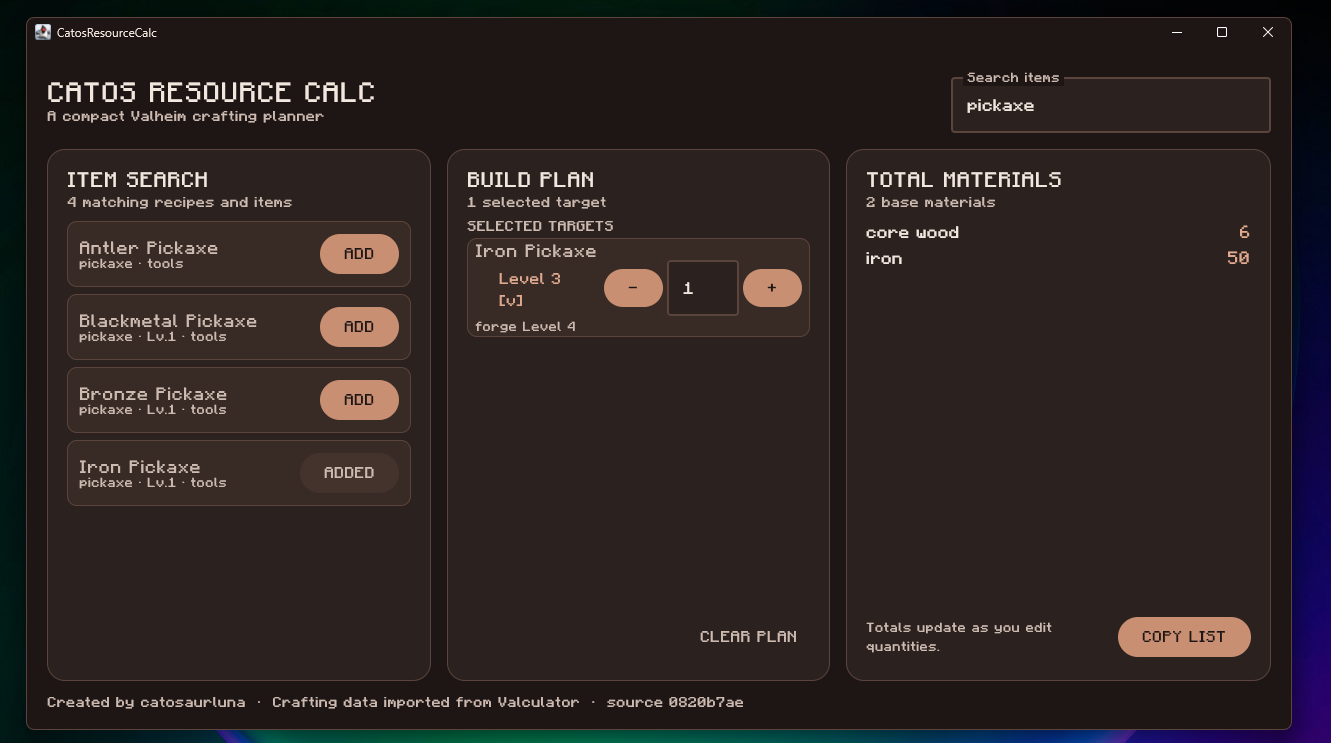
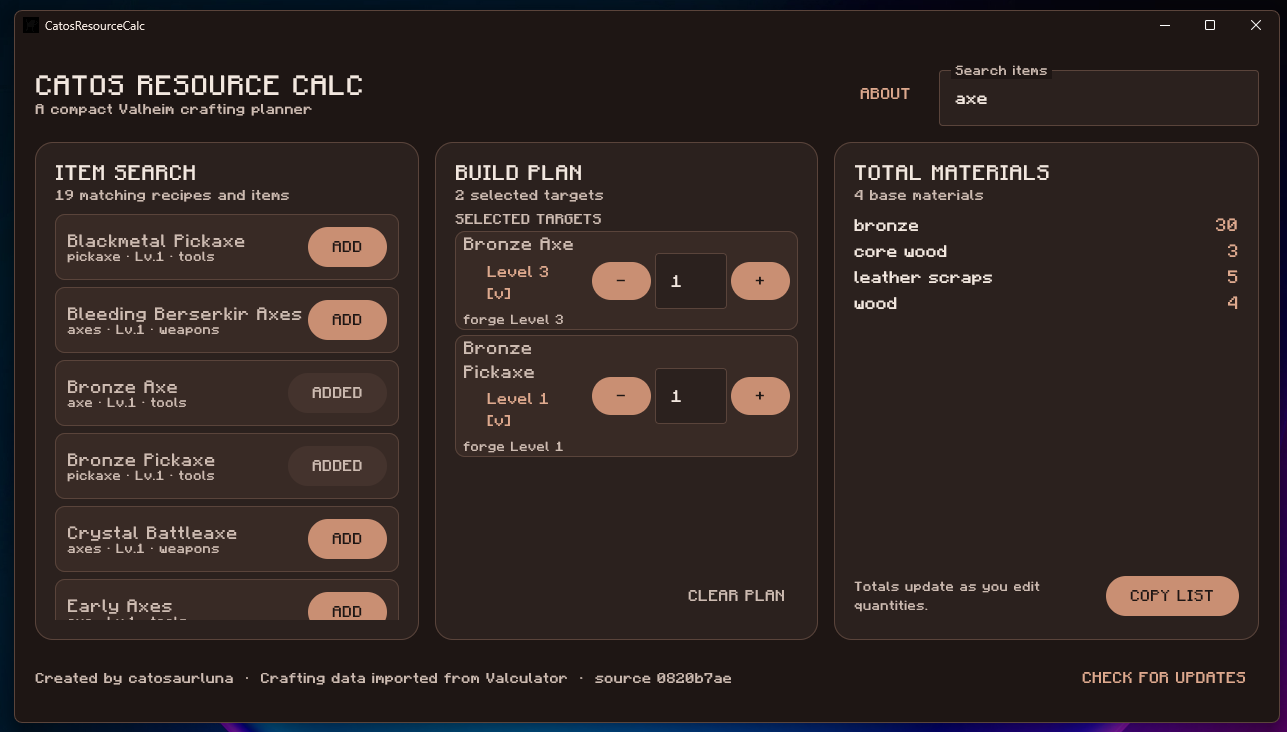
docs: document updater and refresh README screenshot
Record the GitHub release update-check behavior and versioning expectations for future contributors. Replace the README preview with the latest three-column mocha UI screenshot.

diff --git a/AGENTS.md b/AGENTS.md
@@ -1,0 +1,17 @@
+# CatosResourceCalc Agent Notes
+
+## Update system
+
+- Update checking is implemented in `src/main/kotlin/com/cato/resourcecalc/updates/ReleaseChecker.kt`.
+- The app checks the public GitHub Releases API for `ucwxcato/craftingcalculator-valheim` once at launch on a background coroutine.
+- The footer's **CHECK FOR UPDATES** action performs a manual check and opens the About dialog, where the status and release link are shown.
+- Update checks are non-blocking and failures are safe for offline use; the app never replaces files silently.
+- `Main.kt` contains the embedded `APP_VERSION`. Bump it for every published prerelease/release so it matches the tag (for example, `0.1.0-alpha.2` with `v0.1.0-alpha.2`).
+- Update comparison uses semantic versions and ignores draft GitHub releases.
+
+## Release verification
+
+- Run `./gradlew test` before publishing.
+- Build distributables with `./gradlew packageMsi packageUberJarForCurrentOS`.
+- The Windows MSI and runnable JAR are written under `build/compose/` and are uploaded to the matching GitHub Release.
+- Keep updater behavior documented in `how-to-publish-releases.md` when the release flow changes.
